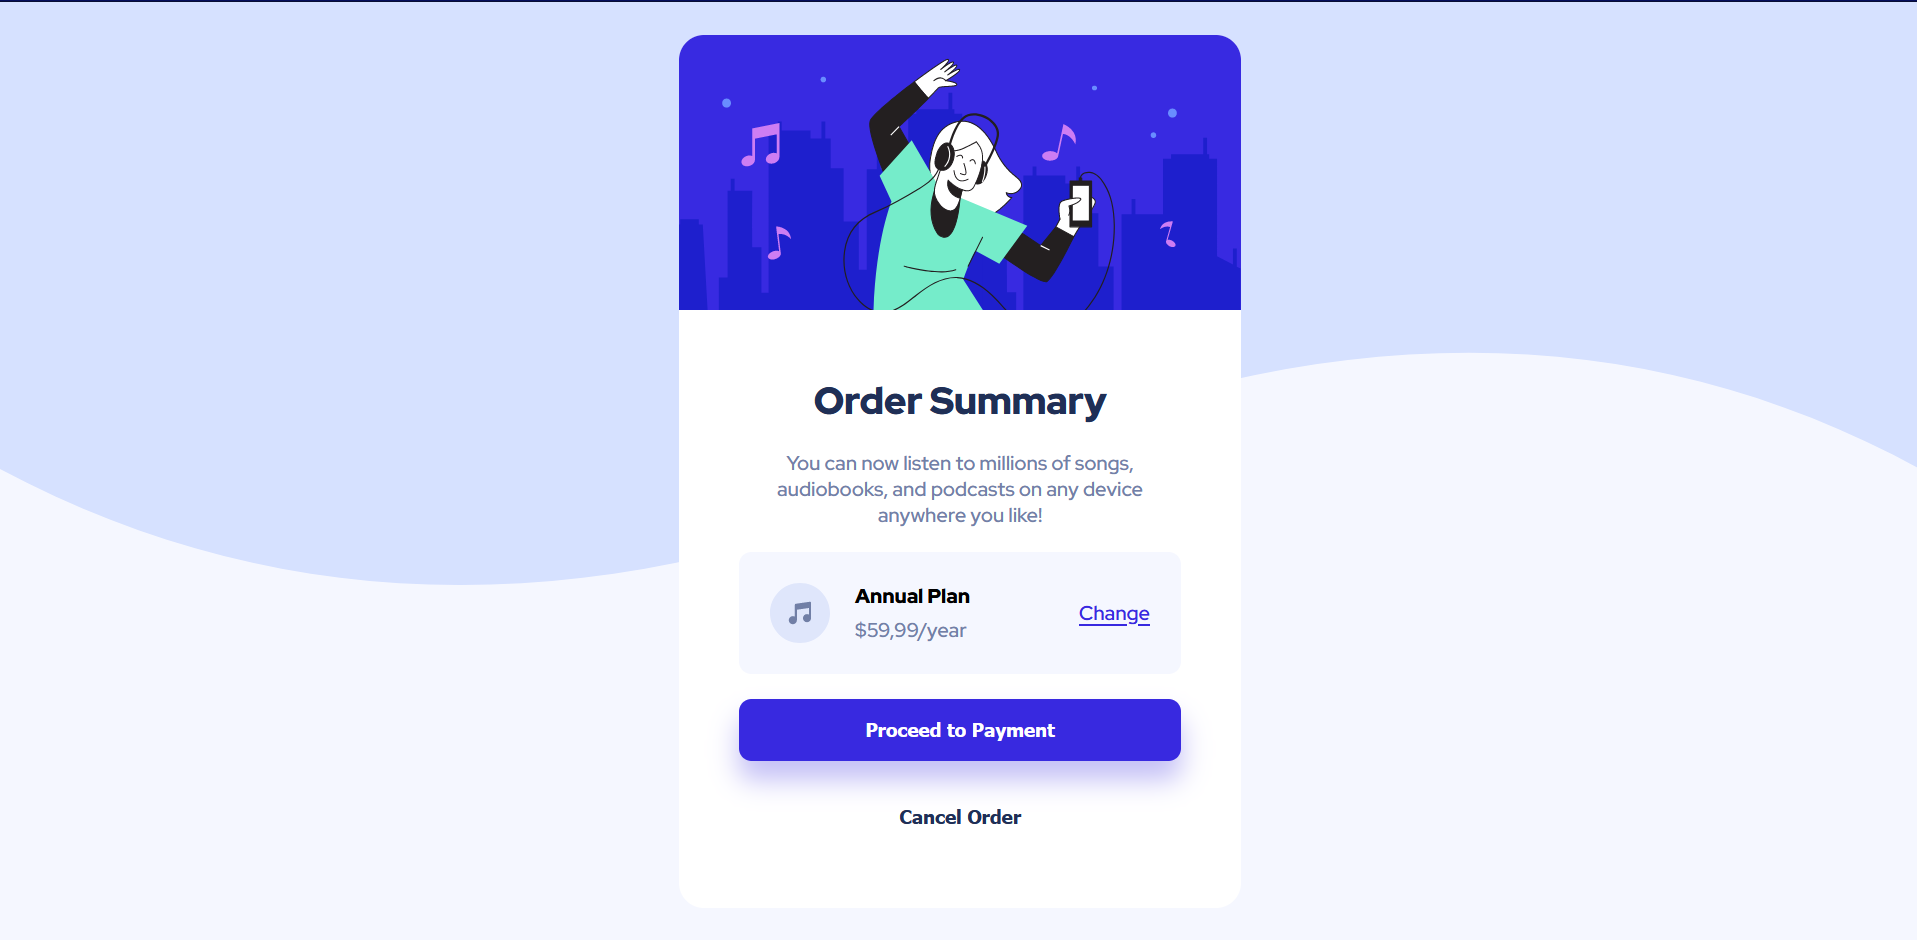
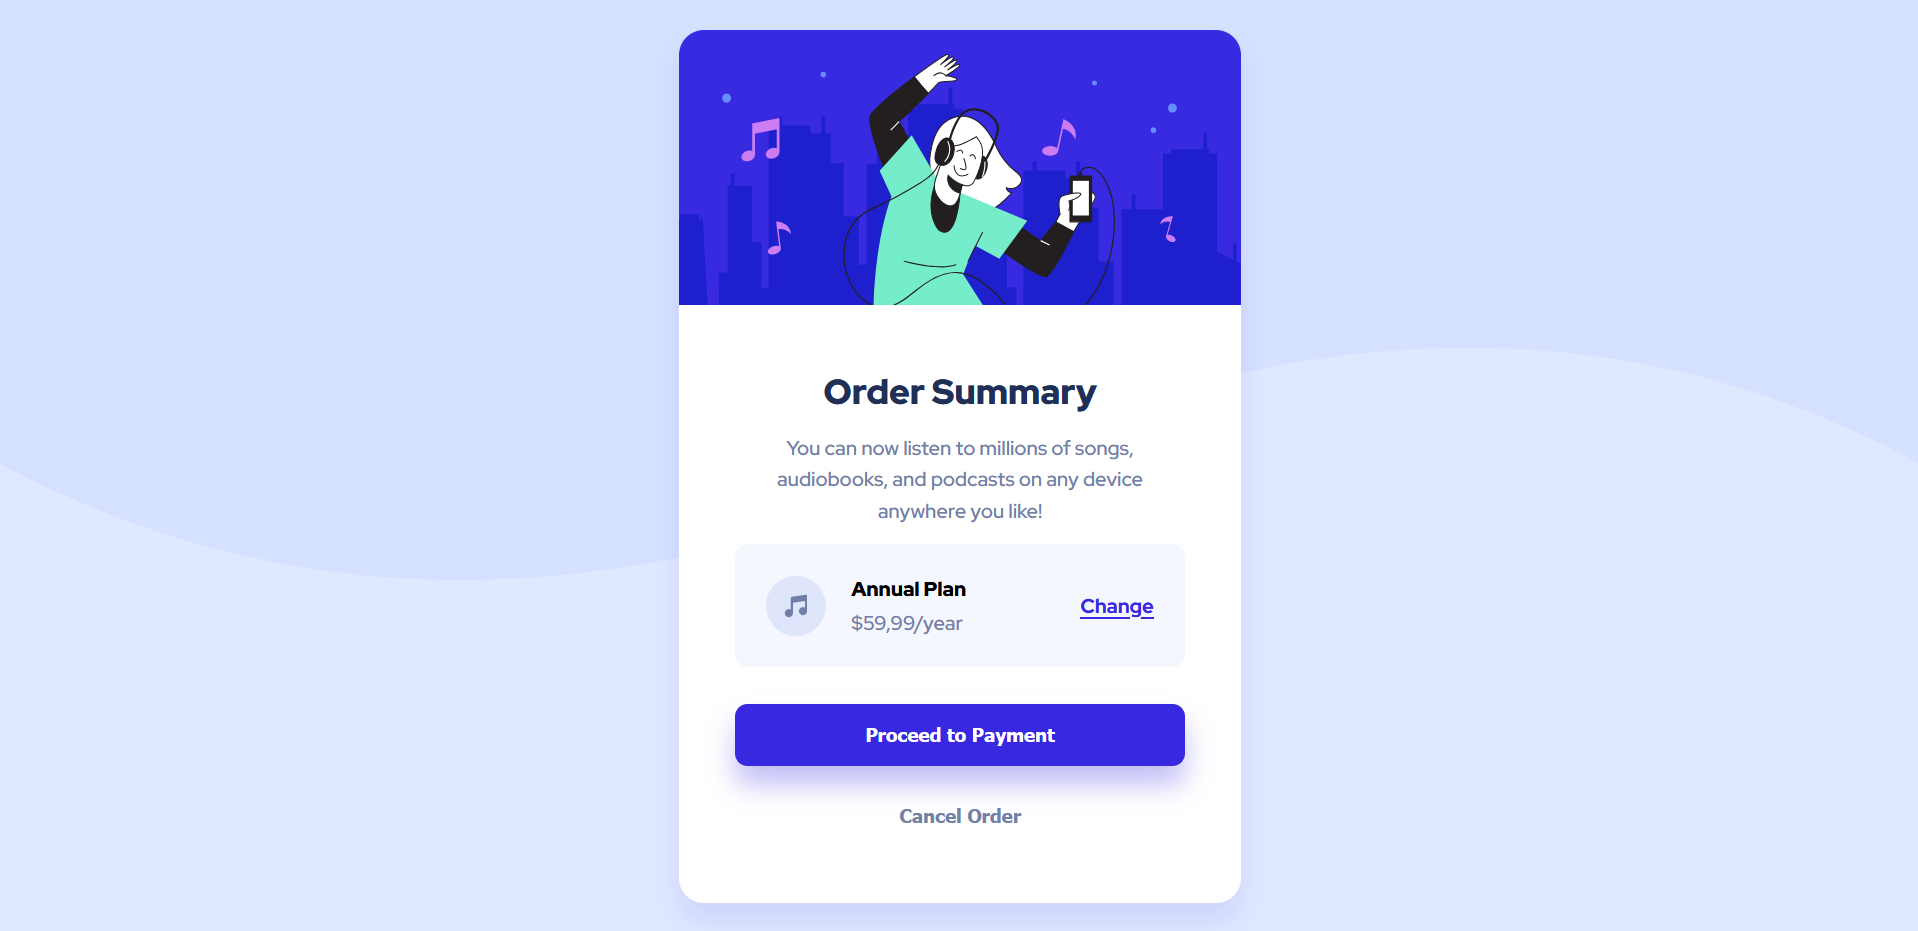
fix

diff --git a/Order-summary-component/css/style.css b/Order-summary-component/css/style.css
@@ -26,7 +26,7 @@
 body {
   width: 100%;
   height: 100vh;
-  background-color: var(--very-pale-blue);
+  background-color: var(--pale-blue);
   font-family: var(--font-family);
   display: flex;
   justify-content: center;
@@ -61,6 +61,9 @@ main {
   border-radius: 20px;
   display: flex;
   flex-direction: column;
+  -webkit-box-shadow: 0 15px 20px 0 rgba(56, 42, 225, 0.1);
+  -moz-box-shadow: 0 15px 20px 0 rgba(56, 42, 225, 0.1);
+  box-shadow: 0 15px 20px 0 rgba(56, 42, 225, 0.1);
 }
 
 .header-card {
@@ -75,14 +78,14 @@ main {
 }
 
 h1 {
-  font-size: 30px;
+  font-size: 28px;
   font-weight: var(--black);
   color: var(--dark-blue);
 }
 
 .infos {
   flex: 1 0 auto;
-  padding: 48px;
+  padding: 45px;
   display: flex;
   justify-content: space-between;
   align-items: center;
@@ -101,6 +104,7 @@ h1 {
   width: 100%;
   height: 98px;
   padding: 25px;
+  margin-bottom: 15px;
   border-radius: 10px;
   background-color: var(--very-pale-blue);
   display: flex;
@@ -110,6 +114,7 @@ h1 {
 
 .cost a {
   color: var(--bright-blue);
+  font-weight: var(--bold);
   cursor: pointer;
 }
 
@@ -170,7 +175,7 @@ h2 {
 
 .cancel {
   background: none;
-  color: var(--dark-blue);
+  color: var(--desaturated-blue);
 }
 
 @media screen and (max-width: 420px) {

diff --git a/Order-summary-component/index.html b/Order-summary-component/index.html
@@ -20,19 +20,19 @@
     <title>Frontend Mentor | Order summary card</title>
   </head>
   <body>
-    <img
-      class="bg desktop"
-      src="./images/pattern-background-desktop.svg"
-      alt="Background"
-    />
-    <img
-      class="bg mobile"
-      src="./images/pattern-background-mobile.svg"
-      alt="Background"
-    />
     <main>
+      <img
+        class="bg desktop"
+        src="./images/pattern-background-desktop.svg"
+        alt="Background"
+      />
+      <img
+        class="bg mobile"
+        src="./images/pattern-background-mobile.svg"
+        alt="Background"
+      />
       <article class="card">
-        <header role="banner" class="header-card">
+        <header class="header-card">
           <img src="./images/illustration-hero.svg" alt="Illustration cover" />
         </header>
         <section class="infos">
